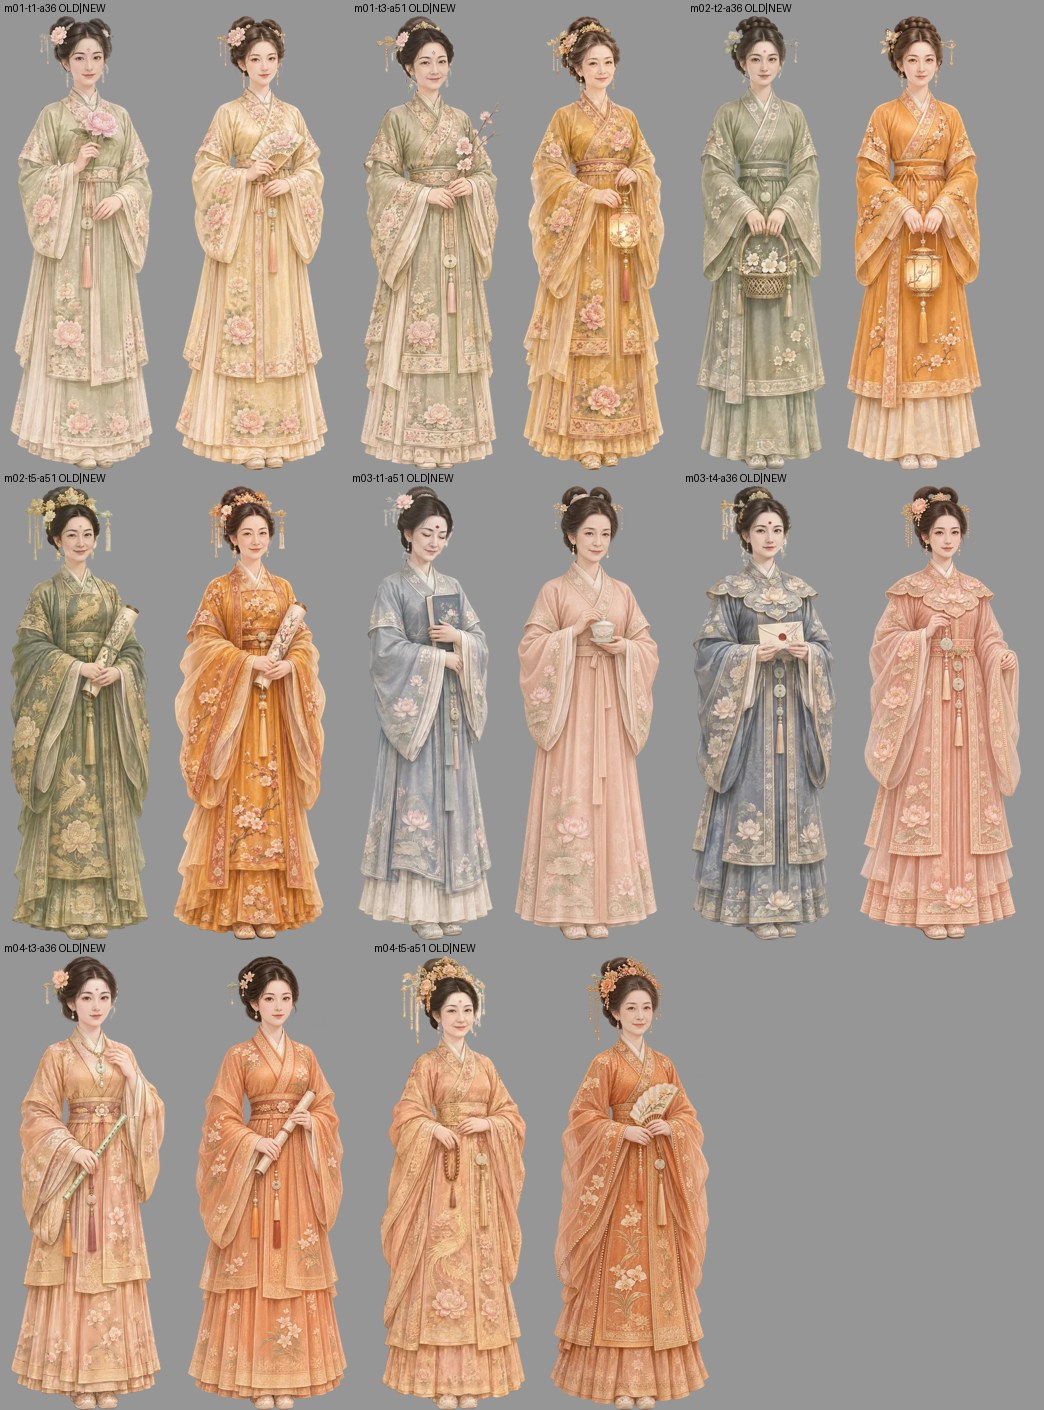
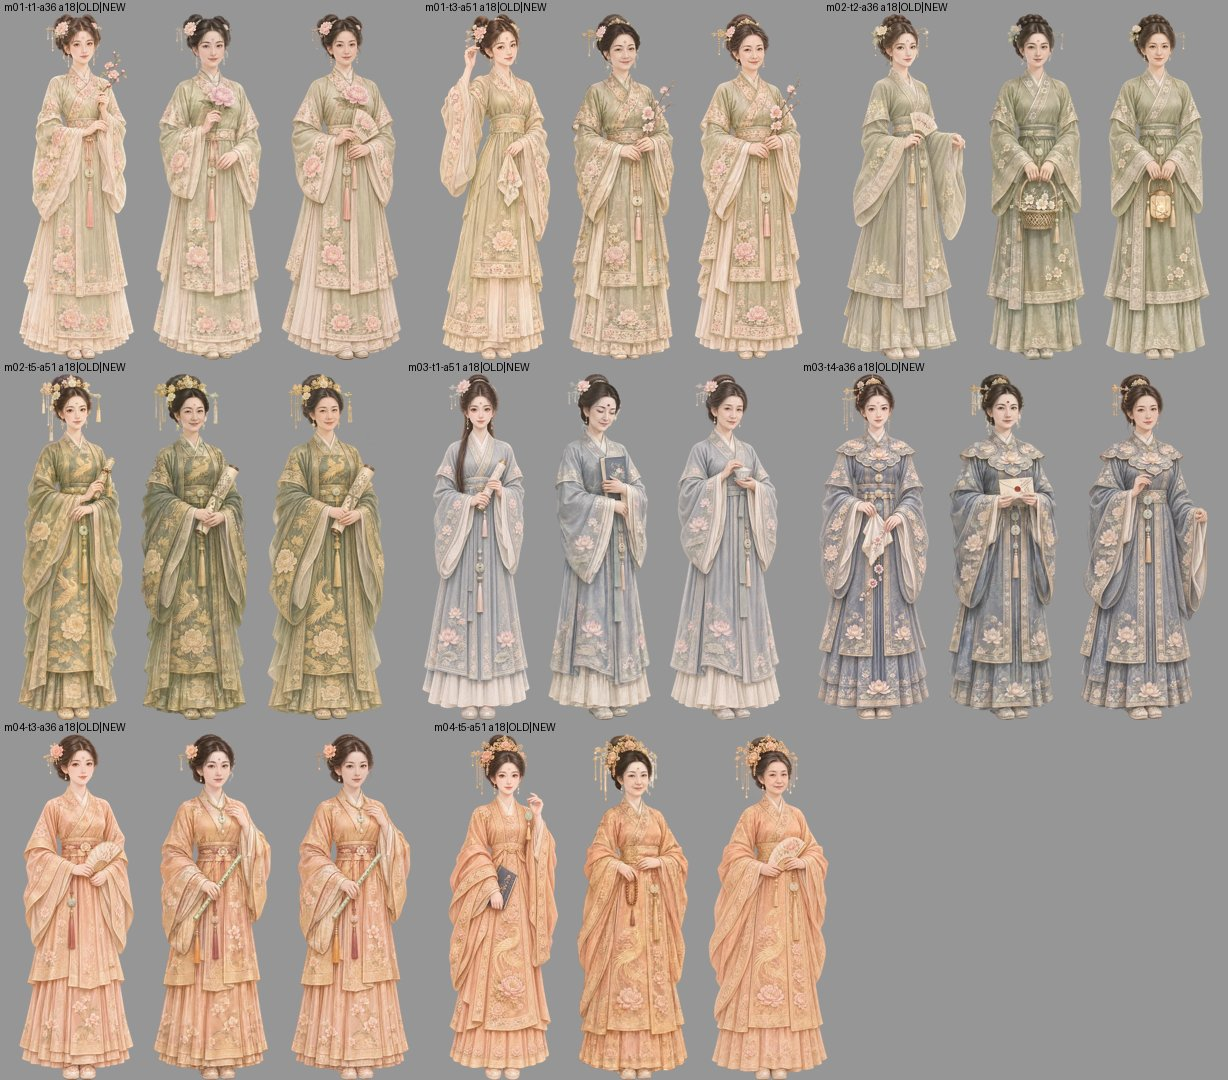
W8: mama pilot v2 (a18 colour match), not uploaded

diff --git a/dev/handover/reports/fig-cutout-clean/mama-W8.md b/dev/handover/reports/fig-cutout-clean/mama-W8.md
@@ -6,3 +6,8 @@ Ref image1 = OLD live fig-maid-mNN-tX-aYY (outfit/identity) + 4 face refs; colou
 m01-t1-a36 huZlh1ivqL | m01-t3-a51 yiEMyT0PW9 | m02-t2-a36 JNfVPZxOq4 | m02-t5-a51 huZgfr6vqL | m03-t1-a51 Bh9rhtCoQR | m03-t4-a36 w4v04Nu7EI | m04-t3-a36 4RQeZ4l9Aa | m04-t5-a51 ksp3gsV16B  (m01/m02 got bg-removal 3cr each, rest native alpha)
 Credits: 8x65 + 4x3 = 532. qa_fig: only pinholes (<10) + huadian WARN (none drawn).
 Note: OLD files had a forehead huadian dot on maids; new ones have none (rule: huadian only consorts).
+
+## PILOT v2 (after ROOT-5 colour check 10:37Z) 
+COLOUR RULE: new mN-tK-aXX must match the LIVE a18 mN-tK (= OLD colour), NOT the consort-tier table. m01/m02/m03 pilot v1 (table gold/saffron/peach) FAILED the check -> redone in a18 colour (sage/sage/dusty blue-grey); m04 v1 too orange -> redone peach-apricot; m04-t3 v2 had a faint forehead dot copied from the old ref -> redone with 'ERASE the dot' line. Prompt now: "SAME outfit colours (<describe from image 1>) ... keep colours exactly, do not recolour; FOREHEAD bare, erase any mark".
+Final gen ids: m01-t1-a36 s78zNUvl8e | m01-t3-a51 SymW396Ub8 | m02-t2-a36 mERlKV7hJQ | m02-t5-a51 5jM67Q7Kxe | m03-t1-a51 p8O5FvZehw | m03-t4-a36 P3upTcu42C | m04-t3-a36 5jM6RvHKxe | m04-t5-a51 cpguEkq0eP. Credits so far 532 + 8x65 = 1052 (+3 bg removal x4 earlier).
+Sheet = pilot-mama/pilot-sheet.jpg (a18 | OLD | NEW per file). Scratch /home/user/wt/w8 (proc.sh, sheet3.py, fore.py).
